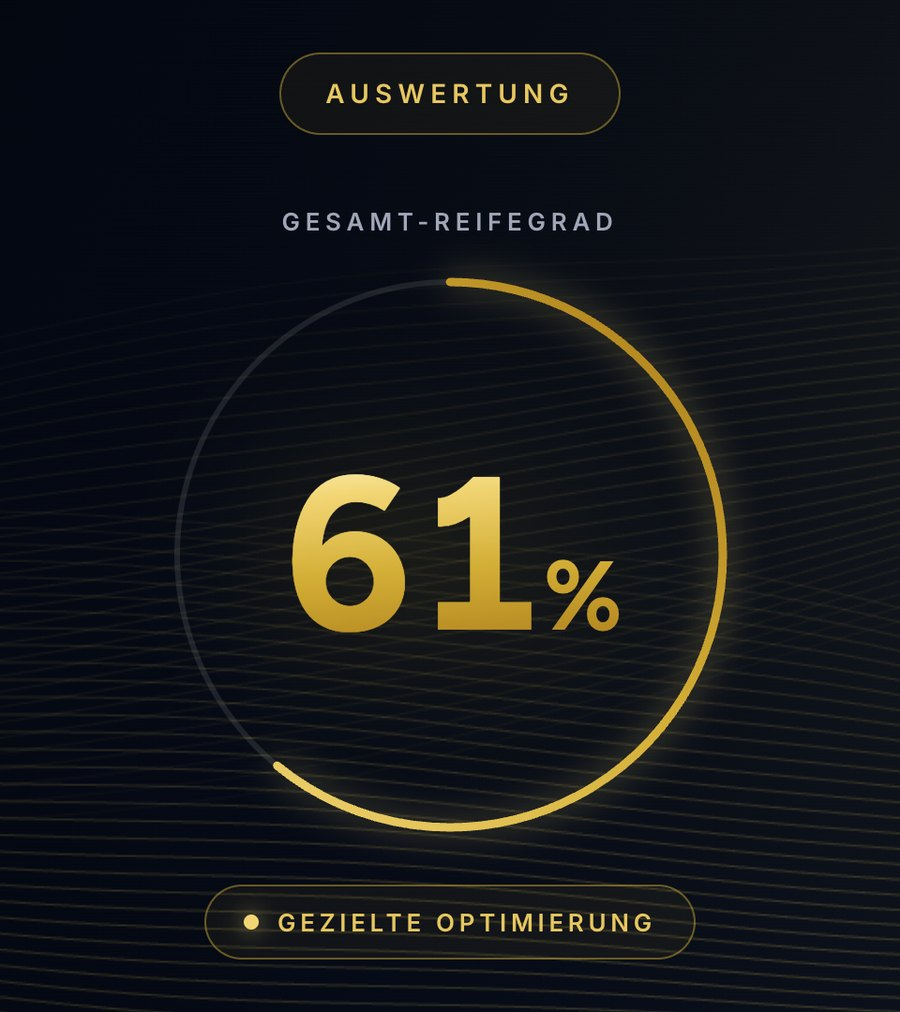
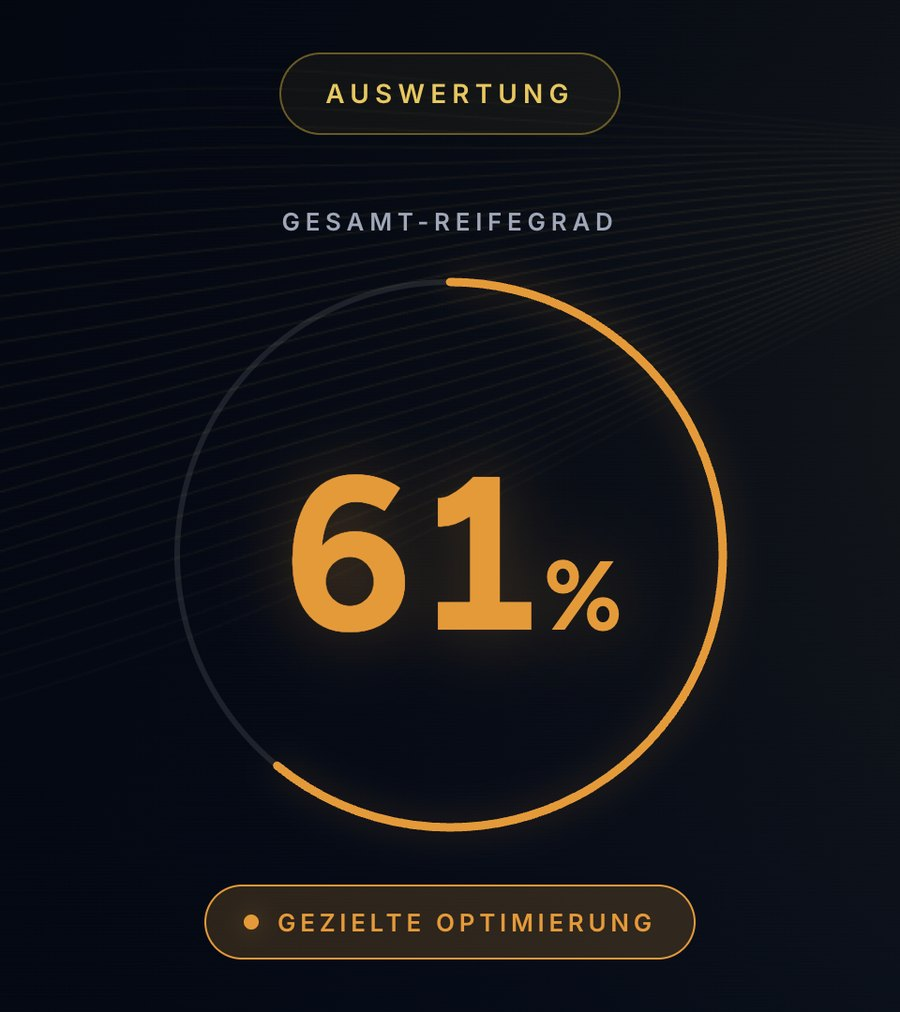
Potenzialanalyse: schlanker Fortschrittsbalken mit Prozent, ruhigere Fragen, Ampelfarben im Reifegrad
- Stationsleiste, Kopfzeile „Potenzialanalyse“ und „Bereich x/4“ entfernt, stattdessen dünner Ladebalken mit Prozent (beantwortete Fragen)
- „Kategorie x von 4“ in der Fragekarte und Icon auf der Bereichsseite entfernt, Karte kompakter und weiter oben
- Auswertung wieder mit Ampelfarben (rot/orange/grün wie bisher), Vorschaubilder neu erzeugt

diff --git a/index.html b/index.html
@@ -92,6 +92,13 @@ window.va = window.va || function () {
     /* Einheitliche Blockbreite der Auswertungsseite (Desktop) */
     --result-width:880px;
 
+    /* Ampel der Auswertung (Werte wie bisher): Gesamt-Reifegrad 0–59 / 60–80 / über 80 */
+    --score-low:#D85C4A;  --score-low-soft:rgba(216,92,74,0.18);  --score-low-glow:rgba(216,92,74,0.32);
+    --score-mid:#E59A3A;  --score-mid-soft:rgba(229,154,58,0.18); --score-mid-glow:rgba(229,154,58,0.32);
+    --score-high:#6FA260; --score-high-soft:rgba(111,162,96,0.18);--score-high-glow:rgba(111,162,96,0.30);
+    /* Ampel je Kategorie (Werte wie bisher) */
+    --status-low:#D85C4A; --status-mid:#D4AF37; --status-high:#6FA260;
+
     /* wird von validateLead() für fehlende Pflichtfelder genutzt: im Stil Gold hell statt Rot */
     --ele-danger:#f2d675;
   }
@@ -372,80 +379,31 @@ window.va = window.va || function () {
   }
 
   /* =========================================================
-     Fragebogen: Kopf und Stationsleiste
+     Fragebogen: schlanker Fortschrittsbalken mit Prozent
      ========================================================= */
-  .q-top{max-width:820px;margin:0 auto 36px}
-  .q-compact-header{
-    display:flex;justify-content:space-between;align-items:baseline;
-    margin-bottom:22px;
+  .q-top{max-width:820px;margin:0 auto 24px}
+  .q-progress{display:flex;align-items:center;gap:14px}
+  .q-progress-track{flex:1;height:3px;border-radius:2px;background:rgba(245,241,232,0.12);overflow:hidden}
+  .q-progress-fill{
+    height:100%;width:0;border-radius:2px;
+    background:linear-gradient(90deg,rgba(212,175,55,0.4),#f2d675);
+    box-shadow:0 0 10px rgba(242,214,117,0.45);
+    transition:width 1.2s var(--ease);
   }
-  .q-brand-label{
-    font-size:13px;font-weight:600;
-    letter-spacing:0.22em;text-transform:uppercase;
-    color:var(--meta);
-  }
-  .q-step-label{
+  .q-progress-pct{
+    min-width:3.2em;text-align:right;
     font-family:"Figtree",sans-serif;
-    font-size:16px;font-weight:650;
+    font-size:14px;font-weight:600;
     color:var(--gold-soft);
     font-variant-numeric:tabular-nums;
   }
-  .stations{
-    position:relative;list-style:none;
-    display:grid;grid-template-columns:repeat(4,1fr);
-  }
-  /* Linie von der Mitte der ersten bis zur Mitte der letzten Station */
-  .st-track,.st-fill{
-    position:absolute;top:19px;left:12.5%;height:2px;
-  }
-  .st-track{right:12.5%;background:rgba(245,241,232,0.16)}
-  .st-fill{
-    width:0;
-    background:linear-gradient(90deg,rgba(212,175,55,0.4),#f2d675);
-    box-shadow:0 0 14px rgba(242,214,117,0.6);
-    transition:width 1.2s var(--ease);
-  }
-  .station{position:relative;display:flex;flex-direction:column;align-items:center;gap:12px}
-  .st-dot{
-    position:relative;z-index:1;
-    width:40px;height:40px;border-radius:50%;
-    display:flex;align-items:center;justify-content:center;
-    font-family:"Figtree",sans-serif;font-weight:650;font-size:17px;
-    color:var(--meta);
-    background:#07101f;
-    border:1.5px solid rgba(201,195,181,0.3);
-    transition:background .9s var(--ease),border-color .9s var(--ease),box-shadow .9s var(--ease),color .9s var(--ease);
-  }
-  .st-dot svg{width:18px;height:18px;stroke-width:2.6}
-  .station.done .st-dot{background:var(--grad-gold-btn);border-color:transparent;color:var(--on-gold)}
-  .station.active .st-dot{
-    color:var(--gold-hi);border:2px solid #f2d675;
-    box-shadow:0 0 0 6px rgba(212,175,55,0.1),0 0 28px rgba(242,214,117,0.45);
-  }
-  .st-lbl{
-    font-size:13px;font-weight:600;line-height:1.3;
-    letter-spacing:0.02em;text-align:center;
-    color:var(--meta);max-width:17ch;
-  }
-  .station.done .st-lbl{color:var(--text-2)}
-  .station.active .st-lbl{color:var(--gold-hi)}
 
   /* Bereichs-Startseite */
   .cat-cover{
     max-width:820px;margin:0 auto;
-    min-height:46vh;
-    display:flex;flex-direction:column;align-items:flex-start;justify-content:center;
+    display:flex;flex-direction:column;align-items:flex-start;
     padding:24px 0 8px;
   }
-  .cat-cover-icon{
-    width:60px;height:60px;border-radius:50%;
-    display:flex;align-items:center;justify-content:center;
-    color:var(--gold-soft);
-    background:var(--glass-bg);
-    border:1px solid rgba(212,175,55,0.45);
-    margin-bottom:28px;
-  }
-  .cat-cover-icon svg{width:26px;height:26px;stroke-width:1.6}
   .cat-cover-eyebrow{
     font-size:13px;font-weight:600;
     letter-spacing:0.22em;text-transform:uppercase;
@@ -467,24 +425,19 @@ window.va = window.va || function () {
   .cover-nav{width:100%}
 
   /* Frage-Karte */
-  .q-card{max-width:820px;margin:0 auto;padding:clamp(26px,3.6vw,44px)}
-  .cat-label{
-    font-size:13px;font-weight:600;
-    letter-spacing:0.22em;text-transform:uppercase;
-    color:var(--meta);margin-bottom:16px;
-  }
+  .q-card{max-width:820px;margin:0 auto;padding:clamp(24px,3vw,36px)}
   .q-text{
     font-family:"Figtree",sans-serif;
     font-weight:600;
     font-size:clamp(21px,2.2vw,27px);line-height:1.25;
     letter-spacing:-0.012em;
-    color:var(--text);margin-bottom:28px;
+    color:var(--text);margin-bottom:22px;
   }
-  .q-options{display:flex;flex-direction:column;gap:12px}
+  .q-options{display:flex;flex-direction:column;gap:10px}
   .q-option{
     position:relative;
     display:flex;align-items:center;gap:16px;
-    min-height:60px;padding:16px 20px;
+    min-height:56px;padding:14px 20px;
     border-radius:var(--r-card);
     background:linear-gradient(160deg,rgba(30,44,70,0.62) 0%,rgba(11,22,40,0.5) 60%,rgba(7,18,38,0.6) 100%);
     border:1px solid rgba(212,175,55,0.16);
@@ -516,7 +469,7 @@ window.va = window.va || function () {
 
   .q-nav{
     display:flex;justify-content:space-between;align-items:center;
-    gap:12px;margin-top:32px;
+    gap:12px;margin-top:24px;
   }
   .btn-back{
     display:inline-flex;align-items:center;gap:8px;
@@ -631,8 +584,8 @@ window.va = window.va || function () {
   .score-ring svg{position:absolute;inset:0;width:100%;height:100%;transform:rotate(-90deg);overflow:visible}
   .score-ring .ring-track{fill:none;stroke:rgba(245,241,232,0.1);stroke-width:2}
   .score-ring .ring-arc{
-    fill:none;stroke:url(#ringGold);stroke-width:3;stroke-linecap:round;
-    filter:drop-shadow(0 0 6px rgba(242,214,117,0.55));
+    fill:none;stroke:var(--score-color);stroke-width:3;stroke-linecap:round;
+    filter:drop-shadow(0 0 6px var(--score-glow));
     transition:stroke-dashoffset 1.8s var(--ease);
   }
   .result-score{
@@ -641,9 +594,13 @@ window.va = window.va || function () {
     font-size:clamp(84px,8.4vw,116px);
     line-height:1;letter-spacing:-0.04em;
     font-variant-numeric:tabular-nums;
-    filter:drop-shadow(0 0 40px rgba(212,175,55,0.3));
+    color:var(--score-color);
+    text-shadow:0 0 36px var(--score-glow);
     white-space:nowrap;
   }
+  .score-side.s-low{--score-color:var(--score-low);--score-soft:var(--score-low-soft);--score-glow:var(--score-low-glow)}
+  .score-side.s-mid{--score-color:var(--score-mid);--score-soft:var(--score-mid-soft);--score-glow:var(--score-mid-glow)}
+  .score-side.s-high{--score-color:var(--score-high);--score-soft:var(--score-high-soft);--score-glow:var(--score-high-glow)}
   .result-score-pct{font-size:0.45em;margin-left:0.06em;letter-spacing:-0.02em}
   .result-badge{
     margin-top:26px;
@@ -651,13 +608,13 @@ window.va = window.va || function () {
     display:inline-flex;align-items:center;gap:10px;
     font-size:13px;font-weight:600;
     letter-spacing:0.18em;text-transform:uppercase;
-    color:var(--gold-soft);
-    border:1px solid rgba(212,175,55,0.45);
-    background:rgba(212,175,55,0.06);
+    color:var(--score-color);
+    border:1px solid var(--score-color);
+    background:var(--score-soft);
   }
   .result-badge::before{
     content:"";width:8px;height:8px;border-radius:50%;flex-shrink:0;
-    background:var(--gold-hi);box-shadow:0 0 12px rgba(242,214,117,0.8);
+    background:var(--score-color);box-shadow:0 0 12px var(--score-glow);
   }
   .summary-side{width:100%;max-width:720px;margin:0 auto 48px;text-align:center}
   .summary-eyebrow{
@@ -757,20 +714,21 @@ window.va = window.va || function () {
     font-size:19px;font-weight:650;letter-spacing:-0.01em;
     font-variant-numeric:tabular-nums;
   }
-  .cat-row-dot{display:none}
+  .cat-row-dot{width:8px;height:8px;border-radius:50%;flex-shrink:0;margin-left:10px}
 
-  /* Stufen nur über Gold-Helligkeit: schwach gedämpft, mittel Gold weich, stark Gold hell */
-  .low-text{color:var(--text-2)}
-  .mid-text{color:var(--gold-soft)}
-  .high-text{color:var(--gold-hi)}
-  .low-fill{background:linear-gradient(90deg,rgba(168,121,24,0.55),rgba(212,175,55,0.6))}
-  .mid-fill{background:var(--grad-bar)}
-  .high-fill{background:var(--grad-bar);box-shadow:0 0 14px rgba(242,214,117,0.55)}
-  .ml-score.low,.ml-score.mid,.ml-score.high{
-    background:var(--grad-gold-text);
-    -webkit-background-clip:text;background-clip:text;
-    color:transparent;-webkit-text-fill-color:transparent;
-  }
+  /* Ampel je Kategorie: rot / gold / grün (wie bisher) */
+  .low-text{color:var(--status-low)}
+  .mid-text{color:var(--status-mid)}
+  .high-text{color:var(--status-high)}
+  .low-fill{background:linear-gradient(90deg,rgba(216,92,74,0.55),var(--status-low))}
+  .mid-fill{background:linear-gradient(90deg,rgba(212,175,55,0.55),var(--status-mid))}
+  .high-fill{background:linear-gradient(90deg,rgba(111,162,96,0.55),var(--status-high))}
+  .cat-row-dot.low{background:var(--status-low);box-shadow:0 0 8px rgba(216,92,74,0.5)}
+  .cat-row-dot.mid{background:var(--status-mid);box-shadow:0 0 8px rgba(212,175,55,0.5)}
+  .cat-row-dot.high{background:var(--status-high);box-shadow:0 0 8px rgba(111,162,96,0.5)}
+  .ml-score.low{color:var(--status-low)}
+  .ml-score.mid{color:var(--status-mid)}
+  .ml-score.high{color:var(--status-high)}
 
   /* Detailbereich */
   .results-detail-wrap{max-width:var(--result-width);margin:0 auto}
@@ -802,12 +760,13 @@ window.va = window.va || function () {
     font-variant-numeric:tabular-nums;
   }
   .verdict::before{content:"";width:6px;height:6px;border-radius:50%;flex-shrink:0}
-  .verdict.red{color:var(--text-2);border:1px solid rgba(201,195,181,0.3)}
-  .verdict.red::before{background:var(--meta)}
-  .verdict.yellow{color:var(--gold-soft);border:1px solid rgba(212,175,55,0.45);background:rgba(212,175,55,0.06)}
-  .verdict.yellow::before{background:var(--gold)}
-  .verdict.green{color:var(--gold-hi);border:1px solid rgba(242,214,117,0.7);background:rgba(212,175,55,0.1)}
-  .verdict.green::before{background:var(--gold-hi);box-shadow:0 0 10px rgba(242,214,117,0.8)}
+  /* Ampel der Empfehlungen: Farbtöne wie bisher, Schrift etwas heller für bessere Lesbarkeit */
+  .verdict.red{color:#C9584C;border:1px solid rgba(168,66,58,0.5);background:rgba(168,66,58,0.12)}
+  .verdict.red::before{background:#C9584C}
+  .verdict.yellow{color:#C99A3D;border:1px solid rgba(201,154,61,0.45);background:rgba(201,154,61,0.12)}
+  .verdict.yellow::before{background:#C99A3D}
+  .verdict.green{color:#6FA260;border:1px solid rgba(92,138,90,0.5);background:rgba(92,138,90,0.14)}
+  .verdict.green::before{background:#6FA260}
   .reco-text{
     display:flex;gap:12px;align-items:flex-start;
     font-size:16px;font-weight:500;line-height:1.55;color:var(--text);
@@ -935,21 +894,20 @@ window.va = window.va || function () {
     .hero-light{margin-top:72px}
     .hero-preview-label{font-size:12px;letter-spacing:0.16em}
 
-    .q-top{margin-bottom:28px}
-    .q-compact-header{margin-bottom:18px}
-    .st-lbl{display:none}
-    .st-dot{width:34px;height:34px;font-size:15px}
-    .st-track,.st-fill{top:16px}
-    .cat-cover{min-height:0;padding:16px 0 0}
-    .cat-cover-icon{width:52px;height:52px;margin-bottom:22px}
+    .q-top{margin-bottom:14px}
+    /* Fragebogen auf dem Handy: oben weniger Luft, damit Frage und Weiter-Knopf ohne Scrollen sichtbar sind */
+    body:has(#progressWrap:not([style*="none"])){padding-top:max(20px,calc(env(safe-area-inset-top) + 12px))}
+    .cat-cover{padding:16px 0 0}
     .cat-cover-title{font-size:clamp(30px,8.4vw,38px)}
     .cat-cover-aim{font-size:18px;margin-bottom:36px}
-    .q-card{padding:24px 18px}
-    .q-text{font-size:21px;margin-bottom:22px}
-    .q-option{padding:14px 16px;gap:14px;min-height:56px}
+    .q-card{padding:18px 16px}
+    .q-text{font-size:19px;line-height:1.24;margin-bottom:16px}
+    .q-options{gap:8px}
+    .q-option{padding:10px 14px;gap:12px;min-height:50px}
+    .q-option-text{line-height:1.38}
     .q-option-text{font-size:16px}
-    .q-nav{flex-direction:column-reverse;gap:6px;margin-top:24px}
-    .btn-next{width:100%;height:56px;font-size:18px}
+    .q-nav{flex-direction:column-reverse;gap:0;margin-top:16px}
+    .btn-next{width:100%;height:52px;font-size:18px}
     .btn-back{width:100%;justify-content:center}
 
     .card{padding:28px 20px}
@@ -1016,13 +974,12 @@ window.va = window.va || function () {
     <div class="brand-title">Potenzialanalyse</div>
   </div>
 
-  <!-- ============= FORTSCHRITT: Stationsleiste (Steps 1–4) ============= -->
+  <!-- ============= FORTSCHRITT: Ladebalken mit Prozent (Steps 1–4) ============= -->
   <div class="q-top" id="progressWrap" style="display:none">
-    <div class="q-compact-header">
-      <span class="q-brand-label">Potenzialanalyse</span>
-      <span class="q-step-label" id="progressLabel"></span>
+    <div class="q-progress" id="qProgress" role="progressbar" aria-label="Fortschritt" aria-valuemin="0" aria-valuemax="100" aria-valuenow="0">
+      <div class="q-progress-track"><div class="q-progress-fill" id="progressFill"></div></div>
+      <span class="q-progress-pct" id="progressLabel">0&thinsp;%</span>
     </div>
-    <div class="stations" id="stations" aria-hidden="true"></div>
   </div>
 
   <!-- ============= STEP 0: HERO ============= -->
@@ -1562,11 +1519,10 @@ function renderSingleQuestion(stepNum){
     step.innerHTML = `
     <div class="q-page-wrapper">
       <div class="cat-cover">
-        <div class="cat-cover-icon rv" style="--d:0"><i data-lucide="${cat.icon}"></i></div>
-        <div class="cat-cover-eyebrow rv" style="--d:1">Bereich ${stepNum} von ${CATEGORIES.length}</div>
-        <h2 class="cat-cover-title rv" style="--d:2">${cat.title}</h2>
-        <p class="cat-cover-aim rv" style="--d:3">${cat.aim}</p>
-        <div class="q-nav cover-nav rv" style="--d:4">
+        <div class="cat-cover-eyebrow rv" style="--d:0">Bereich ${stepNum} von ${CATEGORIES.length}</div>
+        <h2 class="cat-cover-title rv" style="--d:1">${cat.title}</h2>
+        <p class="cat-cover-aim rv" style="--d:2">${cat.aim}</p>
+        <div class="q-nav cover-nav rv" style="--d:3">
           <button class="btn-back" onclick="coverBack(${stepNum})">
             <i data-lucide="arrow-left"></i> Zurück
           </button>
@@ -1590,8 +1546,6 @@ function renderSingleQuestion(stepNum){
 
       <!-- Fragen-Karte -->
       <div class="q-card glass rv">
-        <div class="cat-label">Kategorie ${stepNum} von ${CATEGORIES.length}</div>
-
         <div class="q-text">${q.text}</div>
 
         <div class="q-options">
@@ -1709,9 +1663,7 @@ function goPrevQuestion(stepNum){
   }
 }
 
-/* Stationsleiste: erledigt = Gold mit Häkchen, aktiv = Goldring, offen = gedämpft.
-   Die Linie zum nächsten Bereich füllt sich Frage für Frage. */
-const CHECK_SVG = '<svg viewBox="0 0 24 24" fill="none" stroke="currentColor" stroke-linecap="round" stroke-linejoin="round"><path d="M20 6 9 17l-5-5"/></svg>';
+/* Fortschritt: schlanker Ladebalken, Prozent = bereits beantwortete Fragen */
 function updateProgress(){
   const wrap = document.getElementById("progressWrap");
   const inQuestions = currentStep >= 1 && currentStep <= 4;
@@ -1720,24 +1672,11 @@ function updateProgress(){
 
   const catIdx = currentStep - 1;
   const totalQuestions = CATEGORIES.length * 3;
-  const onCover = currentQuestionIdx < 0;
-  document.getElementById("progressLabel").innerHTML = onCover
-    ? `Bereich ${currentStep}&thinsp;/&thinsp;${CATEGORIES.length}`
-    : `${Math.round(((catIdx * 3 + currentQuestionIdx + 1) / totalQuestions) * 100)}&thinsp;%`;
-
-  const list = document.getElementById("stations");
-  if(!list.children.length){
-    list.innerHTML = '<span class="st-track"></span><span class="st-fill" id="stFill"></span>' +
-      CATEGORIES.map((c, i) => `<div class="station"><span class="st-dot">${i + 1}</span><span class="st-lbl">${c.title}</span></div>`).join("");
-  }
-  list.querySelectorAll(".station").forEach((el, i) => {
-    el.classList.toggle("done", i < catIdx);
-    el.classList.toggle("active", i === catIdx);
-    el.querySelector(".st-dot").innerHTML = i < catIdx ? CHECK_SVG : String(i + 1);
-  });
-  const answeredInCat = onCover ? 0 : currentQuestionIdx;
-  const frac = Math.min(1, (catIdx + answeredInCat / 3) / (CATEGORIES.length - 1));
-  document.getElementById("stFill").style.width = `calc(${frac.toFixed(4)} * 75%)`;
+  const answeredBefore = catIdx * 3 + (currentQuestionIdx < 0 ? 0 : currentQuestionIdx);
+  const pct = Math.round((answeredBefore / totalQuestions) * 100);
+  document.getElementById("progressFill").style.width = pct + "%";
+  document.getElementById("progressLabel").innerHTML = `${pct}&thinsp;%`;
+  document.getElementById("qProgress").setAttribute("aria-valuenow", pct);
 }
 
 /* =========================================================
@@ -1992,16 +1931,11 @@ function renderResult(){
           <div class="score-eyebrow">Gesamt-Reifegrad</div>
           <div class="score-ring">
             <svg viewBox="0 0 200 200" aria-hidden="true">
-              <defs>
-                <linearGradient id="ringGold" x1="0" y1="0" x2="1" y2="1">
-                  <stop offset="0" stop-color="#f2d675"/><stop offset="0.55" stop-color="#d4af37"/><stop offset="1" stop-color="#a87918"/>
-                </linearGradient>
-              </defs>
               <circle class="ring-track" cx="100" cy="100" r="97"/>
               <circle class="ring-arc" cx="100" cy="100" r="97" pathLength="100" stroke-dasharray="100" stroke-dashoffset="100" data-arc="${Math.round(total)}"/>
             </svg>
             <div class="score-block">
-              <div class="result-score gold-text" data-count="${Math.round(total)}">0<span class="result-score-pct">%</span></div>
+              <div class="result-score" data-count="${Math.round(total)}">0<span class="result-score-pct">%</span></div>
             </div>
           </div>
           <div class="result-badge">${heroBadgeText}</div>
